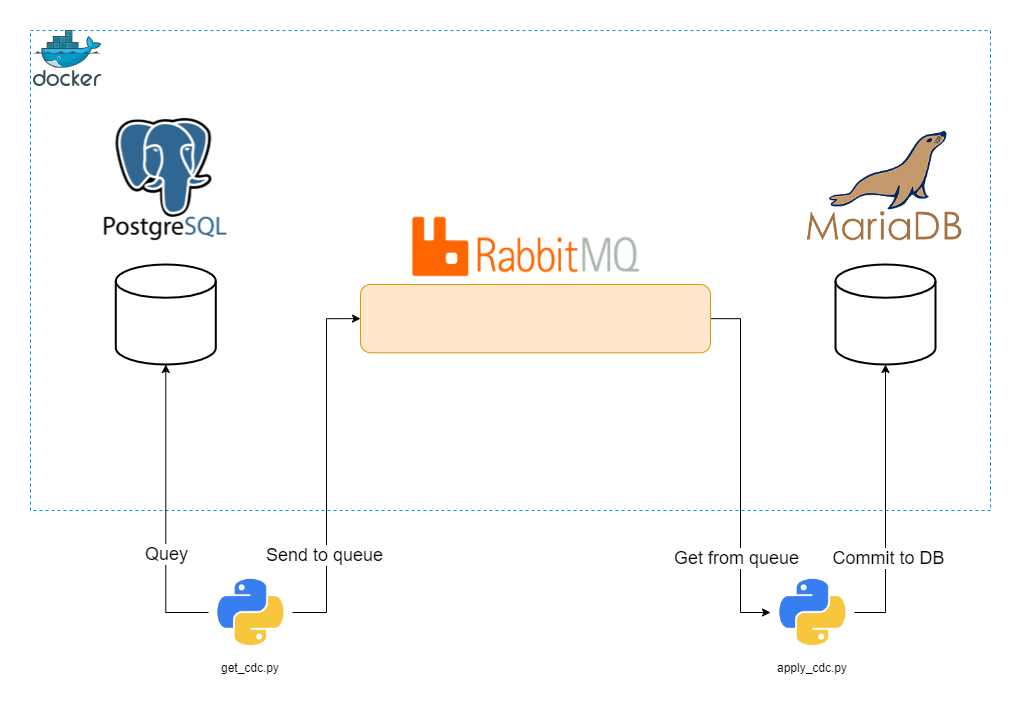
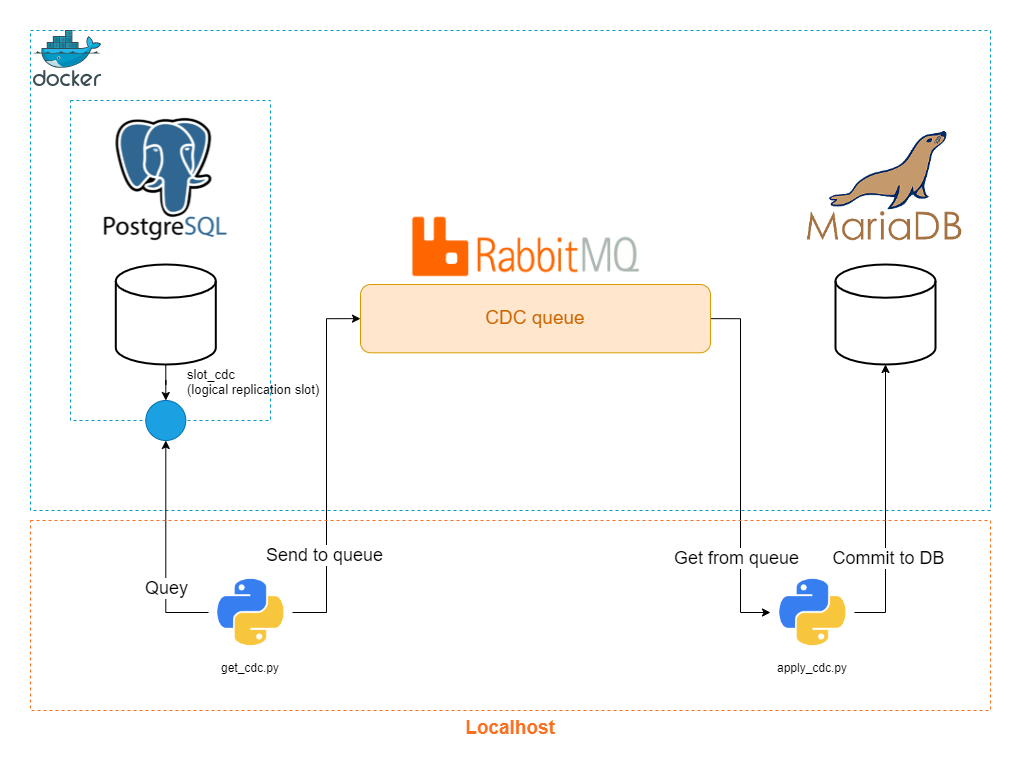
project 2, finished documentation

diff --git a/mini-porjects/02-postgresql-to-mariadb-replication-with-cdc/scripts/get_cdc.py b/mini-porjects/02-postgresql-to-mariadb-replication-with-cdc/scripts/get_cdc.py
@@ -33,7 +33,7 @@ routing_key = "cdc"
 
 if __name__ == "__main__":
     try:
-        print("Waiting for CDC data from Postgresql...")
+        print("Waiting for CDC data from Postgresq. To exit press CTRL+C")
         # Continuously fetch new data
         while True:
             # Execute the SQL query to retrieve change records

diff --git a/mini-porjects/02-postgresql-to-mariadb-replication-with-cdc/scripts/apply_cdc.py b/mini-porjects/02-postgresql-to-mariadb-replication-with-cdc/scripts/apply_cdc.py
@@ -78,7 +78,7 @@ def main():
 
     channel.basic_consume(queue="cdc", on_message_callback=callback, auto_ack=True)
 
-    print(" [*] Waiting for messages. To exit press CTRL+C")
+    print("Waiting for CDC from queue. To exit press CTRL+C")
     channel.start_consuming()
 
 

diff --git a/mini-porjects/02-postgresql-to-mariadb-replication-with-cdc/README.md b/mini-porjects/02-postgresql-to-mariadb-replication-with-cdc/README.md
@@ -1,0 +1,140 @@
+# Replicate a Postgresql table into MariaDB using logical replication implementing a CDC data pipeline
+- [Replicate a Postgresql table into MariaDB using logical replication implementing a CDC data pipeline](#replicate-a-postgresql-table-into-mariadb-using-logical-replication-implementing-a-cdc-data-pipeline)
+  - [What is this project all about](#what-is-this-project-all-about)
+  - [System architecture](#system-architecture)
+  - [Demo](#demo)
+  - [Instructions](#instructions)
+    - [Environment and Docker preparation](#environment-and-docker-preparation)
+    - [Creating and starting the logical replication slot](#creating-and-starting-the-logical-replication-slot)
+    - [Staring the `get_cdc.py` and `apply_cdc.py` scripts](#staring-the-get_cdcpy-and-apply_cdcpy-scripts)
+    - [Accessing Databases](#accessing-databases)
+    - [Applying INSERT, UPDATE, and DELETE to Postgresql and watch it flows to MariaDB](#applying-insert-update-and-delete-to-postgresql-and-watch-it-flows-to-mariadb)
+    - [Stopping the project](#stopping-the-project)
+    - [\[Bonus\] Other useful commands/queries](#bonus-other-useful-commandsqueries)
+  - [Things to consider if you want to make this into real-world project:](#things-to-consider-if-you-want-to-make-this-into-real-world-project)
+  - [Key takeaways](#key-takeaways)
+  - [References](#references)
+
+## What is this project all about
+I built this project to explore the [Postgresql](https://www.postgresql.org/) **Logical Decoding** feature where the DBMS essentially streams the DML  (Data Manipulation language, i.e. INSERT, UPDATE, and DELETE) changes. I used this "changes stream" to create a CDC (Change Data Capture) pipeline that uses [RabbitMQ](https://www.rabbitmq.com/) as a queue for DML changes that happens to one table in Postgresql and then, apply those changes to a table with the same name in [MariaDB](https://mariadb.com/).  
+![hdl](./diagrams/hdl.gif)
+
+
+## System architecture
+![architecture](./diagrams/lld.png)  
+In order to use the **Logical Decoding** feature in Postgresql, something called *Logical Replication Slot* must be created first. This is the entry point that external consumers and applications can query to get the *streaming changes*.  
+  
+A Python script then *queries* this replication slot, does some light processing on the result, and then, sends the payload to the *queue* to be *asynchronously* processed by a consumer application as they are "loosely coupled" which also gives the system some fault tolerance features.  
+  
+Another Python script pulls the "change messages" from the queue, parses the payload, and finally commits the changes to the MariaDB's table.  
+  
+The replication slot uses the [wal2json](https://github.com/eulerto/wal2json) plugin to stream the changes in JSON format. The plugin is installed and initiated in the Postgresql container.  
+  
+Both the **Postgresql** and the **MariaDB** databases are initiated to have `requets` database and an `itrequests` table.  
+  
+W
+## Demo
+![demo](./diagrams/demo.gif)
+## Instructions
+I've deliberately made some of instructions needed to get this project into a working state manual instead of automating them (creating an app_init container or a script) to encourage your engagement and curiosity.
+### Environment and Docker preparation
+- Move into the project's directory `data-engineering-mini-projects/mini-projects/02-postgresql-to-mariadb-replication-with-cdc/`
+- Create a python virtual environment.
+  ```bash
+  python -m venv venv
+  # Or if you have conda installed
+  conda create -p ./venv -y
+  ```
+- Activate the virtual env
+  ```bash
+  source venv/scripts/activate # This is the windows git-bash version
+  # Or with conda
+  conda activate ./venv
+  ```
+- Install the pip requirements.
+  ```bash
+  pip install -r ./requirements.txt
+  ```
+### Creating and starting the logical replication slot
+- Spinning up the project using docker compose file
+  ```bash
+  docker compose up -d
+  ```
+- Create the `cdc_slot` logical replication slot 
+  ```bash
+  docker compose exec postgresqldb bash -c "pg_recvlogical -U postgres -d requests --slot slot_cdc --create-slot -P wal2json"
+  ```
+- Starting it 
+  ```bash
+  docker compose exec postgresqldb bash -c "pg_recvlogical -U postgres -d requests --slot slot_cdc --start -f -&"
+  ```
+### Staring the `get_cdc.py` and `apply_cdc.py` scripts
+- In a new terminal window, type the following to start the `get_cdc.py` script that will query the **Postgresql** logical replication slot for changes.
+  ```bash
+  python ./scripts/get_cdc.py
+  ```
+- In another terminal window, type the following to start the `apply_cdc.py` script that will get "changes messages" from the queue and apply them to **MariaDB**.
+  ```bash
+  python ./scripts/apply_cdc.py
+  ```
+### Accessing Databases
+- Type the following in a new terminal window to access the Postgresql container and the DB server
+  ```bash
+  docker compose exec postgresqldb bash
+  ```
+  then in the container
+  ```bash
+  psql -U postgres -d requests
+  ```
+- Do the same for MariaDB in a new terminal window.
+  ```bash
+  docker compose exec mariadb bash
+  ```
+  then in the container
+  ```bash
+  mariadb -h localhost -P 3306 -u mariadb -pmariadb requests
+  ```
+### Applying INSERT, UPDATE, and DELETE to Postgresql and watch it flows to MariaDB
+- Use the file `./postgresql/db-changes-demo.sql` to play around with some DML queries. Execute those in the `psql` shell and watch them flow to MariaDB. You also can watch the changes in JSON format flowing through the `get_cdc` and `apply_cdc` scripts windows.
+
+### Stopping the project
+- To stop the Python scripts, press Ctrl + c.
+- To spin-down the project, enter the following
+  ```bash
+  docker compose down
+  ```
+
+### [Bonus] Other useful commands/queries
+- To "take a peek" at the changes stream and don't consume it (it will remain in the DB and won't be deleted)
+  ```sql
+  SELECT * FROM pg_logical_slot_peek_changes('slot_cdc', NULL, NULL);
+  ```
+- To consume the changes stream (it will be deleted after executing the query)
+  ```sql
+  SELECT * FROM pg_logical_slot_get_changes('slot_cdc', NULL, NULL);
+  ```
+- To drop a replication slot
+  ```bash
+  pg_recvlogical -U postgres -d requests --slot slot_cdc --drop-slot
+  ```
+- To view the current replication slots from `psql` shell
+  ```sql
+  SELECT slot_name, slot_type, database, active
+  FROM pg_replication_slots;
+  ```
+
+## Things to consider if you want to make this into real-world project:
+- All the components must be security hardened via tighter user control, management, and permissions.
+- The scripts could have be it their own containers as well, but I was focusing more on implementing CDC.
+- Some observability features should be in-place as the scripts, specially the `get_cdc`, could cause problems if queried the replication slot but failed to send the messages to the queue as those messages will be lost.
+- A better alternative to **RabbitMQ** is **Apache Kafka** as it will support backfilling natively.
+
+## Key takeaways
+- **Postgresql** has both, a physical and logical replication slots. The logical one is used to stream the DML changes for external application for replication and auditing proposes.
+- The "Logical Decoding" only streams *DML* changes. Meaning other *DDL* (Data Definition Language) like DROP, CREATE, ..., etc. won't be streamed.
+- Both **Postgresql** and **MariaDB** Docker images has a `/docker-entrypoint-initdb.d/` directory that the db engine will execute what's inside it. I used to initiate the dbs.
+## References
+- [Postgresql Logical Replication](https://www.postgresql.org/docs/current/logicaldecoding.html)
+- [Logical Decoding example](https://techcommunity.microsoft.com/t5/azure-database-for-postgresql/change-data-capture-in-postgres-how-to-use-logical-decoding-and/ba-p/1396421)
+- [Postgres CDC example](https://dev.to/thiagosilvaf/how-to-use-change-database-capture-cdc-in-postgres-37b8)
+- [RabbitMQ python guide](https://www.rabbitmq.com/tutorials/tutorial-one-python)

diff --git a/mini-porjects/01-streaming-visualization/README.md b/mini-porjects/01-streaming-visualization/README.md
@@ -14,7 +14,7 @@
     - [Running the alarms simulation and watch the Dashboard](#running-the-alarms-simulation-and-watch-the-dashboard)
     - [Stopping the project](#stopping-the-project)
   - [Things to consider if you want to make this into real-world project:](#things-to-consider-if-you-want-to-make-this-into-real-world-project)
-  - [Key takeaway points](#key-takeaway-points)
+  - [Key takeaways](#key-takeaways)
   - [References](#references)
 
 ## What is this project all about
@@ -145,7 +145,7 @@ python alarms_generator_script/generate_alarms.py
 - Kafka, Pinot, and Superset access controls should be more restrictive.
 - Superset has an **Alerts** and **Reports** that can send out both on a schedule or in response to a threshold crossing with greatly improves the response of Operations teams. Read about it [here](https://superset.apache.org/docs/configuration/alerts-reports).
 
-## Key takeaway points
+## Key takeaways
 - Configuring *Listeners* for Kafka in a containerized environment is super important.
 - Configuring Docker networking is crucial for a mildly complex containerized setup.
 - Checking systems "version" compatibility before implementing the system is very important. Initially, I was using Kafka 3.x and couldn't make it to work with Pinot only to find out that Pinot connectors only supports Kafka 2.x!
